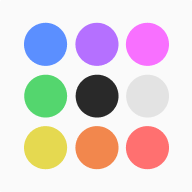
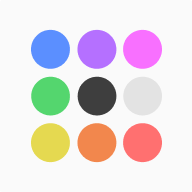
Reload after sign-in on iOS home-screen app so the status-bar strip matches the theme

diff --git a/Scribble App/src/components/AuthScreen.jsx b/Scribble App/src/components/AuthScreen.jsx
@@ -39,10 +39,23 @@ export default function AuthScreen() {
     setLoading(false)
   }
 
-  // Light Dots while this page is up; the device's own theme comes back after
+  // Light Dots while this page is up; the device's own theme comes back after.
+  // On the iPhone home-screen app the status-bar strip (around the Dynamic
+  // Island) takes its colour once, when the page loads, and ignores later
+  // changes — so after signing in it would stay this page's light grey. When the
+  // device's theme differs, reload once so the strip picks up the right colour
+  // (the same thing switching themes in Settings does).
   useLayoutEffect(() => {
+    const shownAt = Date.now()
     applyTheme('light-dots')
-    return () => applyTheme(getTheme())
+    return () => {
+      const theme = getTheme()
+      applyTheme(theme)
+      const stayedUp = Date.now() - shownAt > 500   // not a dev double-mount
+      if (window.navigator.standalone === true && theme !== 'light-dots' && stayedUp) {
+        setTimeout(() => window.location.reload(), 150)
+      }
+    }
   }, [])
 
   // Every 2s the accent fades to the next easel colour, and the title's dot pops
